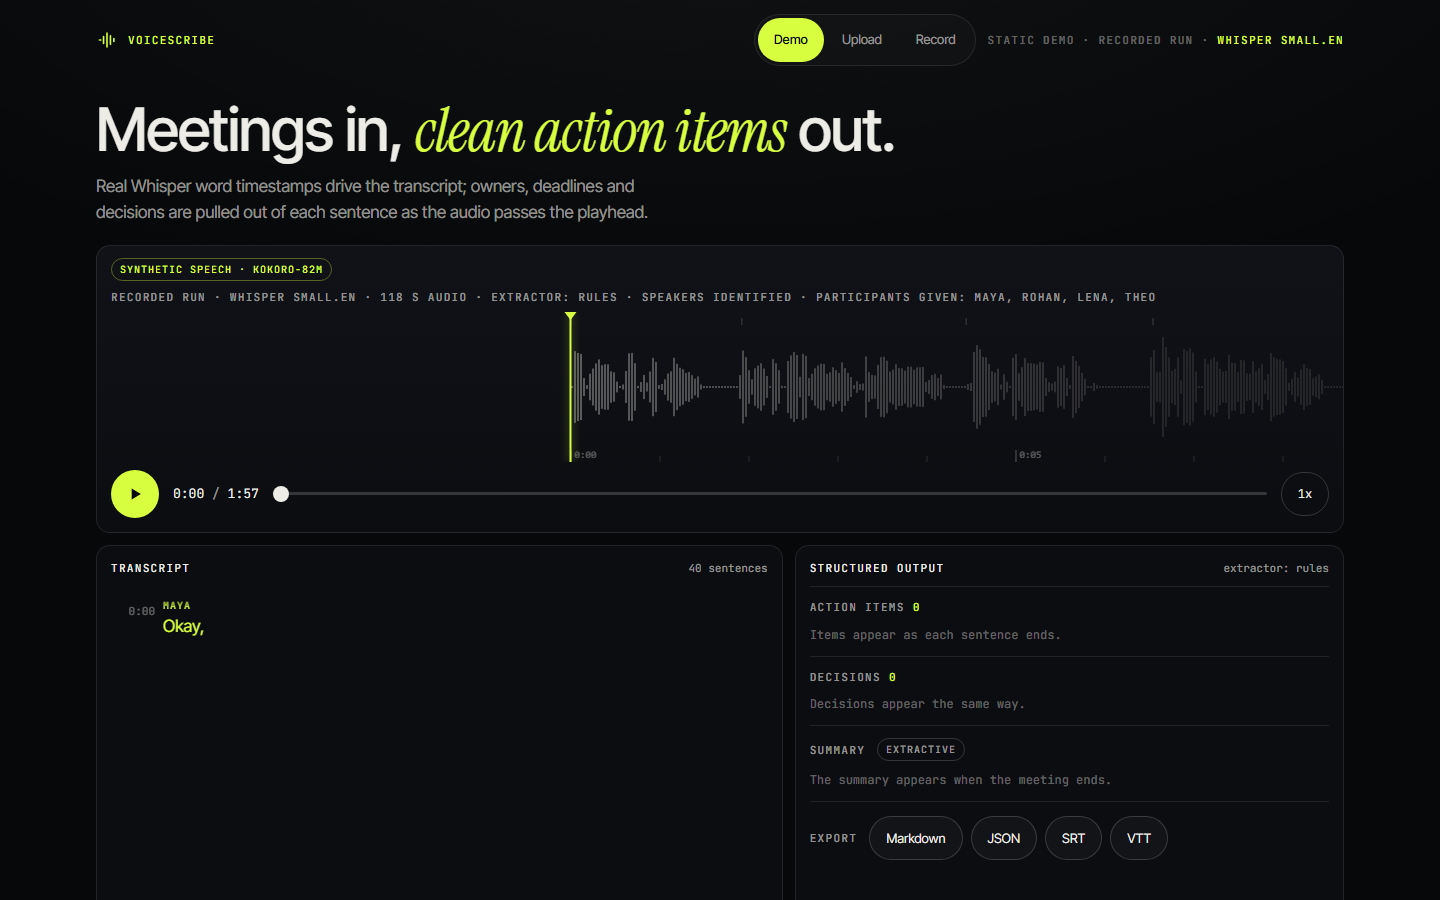
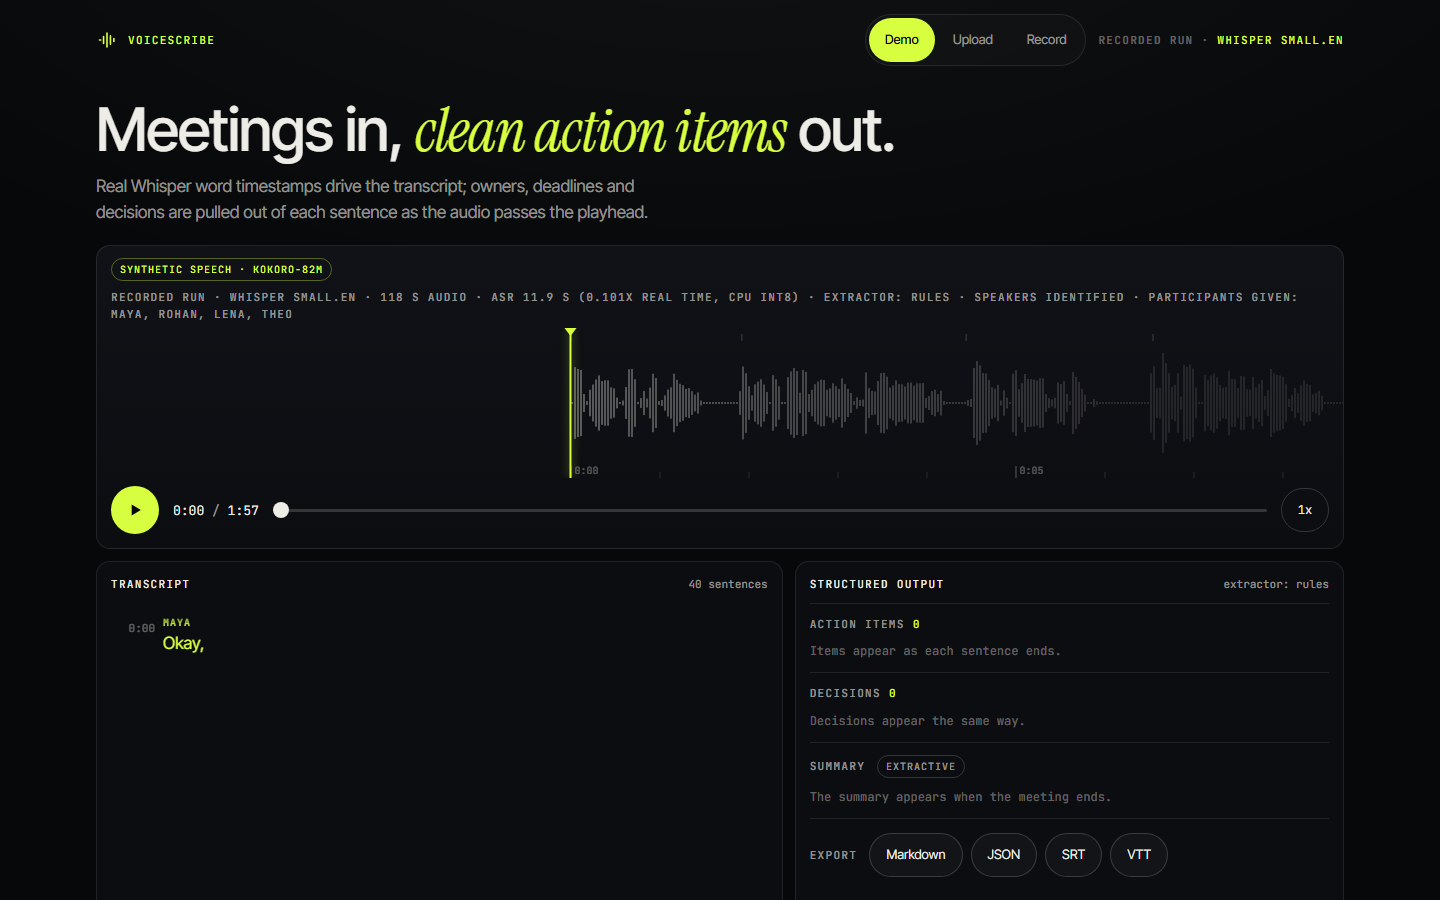
Publish clean CPU transcription speed from a quiet-machine run and re-record the demo timings

diff --git a/scripts/check_numbers.py b/scripts/check_numbers.py
@@ -28,7 +28,6 @@ sys.path.insert(0, str(ROOT / "scripts"))
 
 README = ROOT / "README.md"
 RES = ROOT / "results"
-FUTURE_OUTPUTS = {"results/speed_cpu.json"}  # written by scripts/rerecord_demo.py once the machine is quiet
 SPLITS = {"dev": "dev", "test": "test", "test2": "test2", "held": "held", "heldout": "test2,held"}
 
 
@@ -189,6 +188,14 @@ def compute() -> dict[str, str]:
     v["owner_thr"] = str(inspect.signature(local.LocalExtractor.__init__).parameters["owner_threshold"].default)
     rd = __import__("rerecord_demo")
     v["quiet_pct"], v["threads"] = f"{100 * rd.QUIET_BELOW:.0f}%", str(rd.DEFAULT_THREADS)
+    sp = load("speed_cpu.json")
+    assert all(r["clean"] for r in sp["rows"]), "results/speed_cpu.json has a row measured on a busy CPU: re-run scripts/rerecord_demo.py"
+    assert {r["threads"] for r in sp["rows"]} == {rd.DEFAULT_THREADS}, "results/speed_cpu.json used a different thread count"
+    v["speed_date"], v["speed_audio"] = sp["date"], f"{sp['rows'][0]['audio_s']:.1f} s"
+    v["speed_busy_max"] = f"{100 * max(r['cpu_busy_before'] for r in sp['rows']):.1f}%"
+    tm = json.loads((ROOT / "docs/demo/meeting.json").read_text(encoding="utf8"))["timings"]
+    assert tm["quiet_machine"] == 1.0, "the recorded demo was not timed on a quiet machine"
+    v["demo_asr_s"], v["demo_rtf"], v["demo_busy"] = f"{tm['asr_s']:.1f} s", f"{tm['rtf']}", f"{100 * tm['cpu_busy_before']:.1f}%"
     v["port"] = re.search(r'"--port", type=int, default=(\d+)', (ROOT / "src/voicescribe/cli.py").read_text(encoding="utf8")).group(1)
     asr_src = (ROOT / "src/voicescribe/asr.py").read_text(encoding="utf8")
     v["default_whisper"] = re.search(r'"VOICESCRIBE_WHISPER", "([\w.]+)"', asr_src).group(1)
@@ -263,6 +270,14 @@ def speech_table(v: dict[str, str]) -> str:
     ])  # fmt: skip
 
 
+def speed_table() -> str:
+    lines = ["| Model | Audio | Transcription time | Real-time factor | CPU busy before | WER vs script |", "|---|---|---|---|---|---|"]
+    for r in load("speed_cpu.json")["rows"]:
+        lines.append(f"| {r['model']} | {r['audio_s']:.1f} s | {r['asr_s']:.1f} s | {r['rtf']:.3f} ({1 / r['rtf']:.0f}x faster than real time) | "
+                     f"{100 * r['cpu_busy_before']:.1f}% | {100 * r['wer_vs_script']:.2f}% |")  # fmt: skip
+    return chr(10).join(lines)
+
+
 # ---------------------------------------------------------------------------------------------- apply
 
 INLINE = re.compile(r"<!--n:(\w+)-->(.*?)<!--/n-->", re.S)
@@ -270,7 +285,7 @@ BLOCK = re.compile(r"(<!--b:(\w+)-->\n)(.*?)(\n<!--/b:\2-->)", re.S)
 
 
 def render(text: str, v: dict[str, str]) -> str:
-    blocks = {"speech_table": speech_table(v), "extract_table": extract_table(), "owners_table": owners_table(), "diar_table": diar_table()}
+    blocks = {"speech_table": speech_table(v), "extract_table": extract_table(), "owners_table": owners_table(), "diar_table": diar_table(), "speed_table": speed_table()}
 
     def inline(m: re.Match) -> str:
         key = m.group(1)
@@ -313,7 +328,7 @@ def check_references(text: str) -> list[str]:
         if not (ROOT / script).exists():
             problems.append(f"README runs {script}, which does not exist")
     for path in set(re.findall(r"`((?:docs|results|data|scripts|src|web|tests)/[^`\s<>*]*)`", text)):
-        if "<" not in path and path not in FUTURE_OUTPUTS and not (ROOT / path).exists():
+        if "<" not in path and not (ROOT / path).exists():
             problems.append(f"README names {path}, which does not exist")
     for png in re.findall(r"docs/assets/[\w-]+\.png", text):
         if not (ROOT / png).exists():

diff --git a/README.md b/README.md
@@ -104,11 +104,25 @@ Commands: `voicescribe eval wer --model small.en` (LibriSpeech, the first two ro
 meetings, so they say little about real meeting audio. The recorded run's names come from the supplied attendee list,
 which is why its WER is lower than the recogniser's own.
 
-**Speed.** I do not publish a transcription speed yet: the figures I have were taken while the CPU was busy with other
-jobs, so they describe the load, not the model. `python scripts/rerecord_demo.py` measures tiny.en, base.en and small.en
-on the CPU (int8, <!--n:threads-->3<!--/n--> threads), records the CPU busy fraction before each run, re-records the demo and only
-marks a figure as clean when the CPU was under <!--n:quiet_pct-->25%<!--/n--> busy. Its output goes to `results/speed_cpu.json`, and the
-demo banner shows the number only when it is clean.
+**Speed.** Transcription speed on the CPU (int8, <!--n:threads-->3<!--/n--> threads) for the demo meeting
+(<!--n:speed_audio-->117.7 s<!--/n--> of synthetic speech), measured on <!--n:speed_date-->2026-11-13<!--/n--> by `python scripts/rerecord_demo.py`. Model loading
+is not included. A figure counts as clean only when the CPU was under <!--n:quiet_pct-->25%<!--/n--> busy just before the run; every row below is
+clean (at most <!--n:speed_busy_max-->5.7%<!--/n--> busy). The real-time factor is transcription seconds per audio second, so below 1 is faster
+than real time.
+
+<!--b:speed_table-->
+| Model | Audio | Transcription time | Real-time factor | CPU busy before | WER vs script |
+|---|---|---|---|---|---|
+| tiny.en | 117.7 s | 2.3 s | 0.020 (50x faster than real time) | 5.7% | 1.79% |
+| base.en | 117.7 s | 4.1 s | 0.035 (29x faster than real time) | 3.1% | 0.60% |
+| small.en | 117.7 s | 12.0 s | 0.102 (10x faster than real time) | 3.6% | 1.19% |
+<!--/b:speed_table-->
+
+One run per model on one machine, so these are indicative, not averages. The WER column scores each speed run's own transcript
+against the demo script; those runs were made without the attendee list, so they are not the recorded run scored in the
+table above. The demo banner shows the recorded run's own timing
+(small.en, <!--n:demo_asr_s-->11.9 s<!--/n-->, real-time factor <!--n:demo_rtf-->0.101<!--/n-->, CPU <!--n:demo_busy-->2.2%<!--/n--> busy before the run). That is a separate
+run from the small.en row above, so the two differ slightly.
 
 **Word-timestamp accuracy** on the demo meeting, using the recogniser's own words (sentence first and last word against
 the TTS segment timings, <!--n:ts_n-->69<!--/n--> boundaries): median absolute error <!--n:ts_median-->100 ms<!--/n-->,
@@ -211,7 +225,7 @@ Without speaker labels, a bare "I'll do it" has no owner. So I measured how far 
 **Method.** Each recognised sentence is embedded with a sherpa-onnx speaker model (<!--n:diar_embedding-->NeMo TitaNet small<!--/n-->) and the
 embeddings are clustered by cosine distance (average linkage, threshold <!--n:diar_threshold-->0.35<!--/n-->; sentences under
 <!--n:diar_min_seconds-->1<!--/n--> s do not shape the clusters). With a participants list the number of speakers is set to its length. On the demo meeting
-this takes about <!--n:demo_diar_secs-->2<!--/n--> s on the CPU. The baseline is sherpa-onnx's own segmentation pipeline (pyannote segmentation 3.0
+this takes about <!--n:demo_diar_secs-->1<!--/n--> s on the CPU. The baseline is sherpa-onnx's own segmentation pipeline (pyannote segmentation 3.0
 plus a WeSpeaker embedding), which cuts the audio into arbitrary slices and clusters those.
 
 **Data and tuning.** I synthesised all <!--n:n_all-->17<!--/n--> labelled meetings with Kokoro-82M, one distinct voice per speaker, so every meeting has audio
